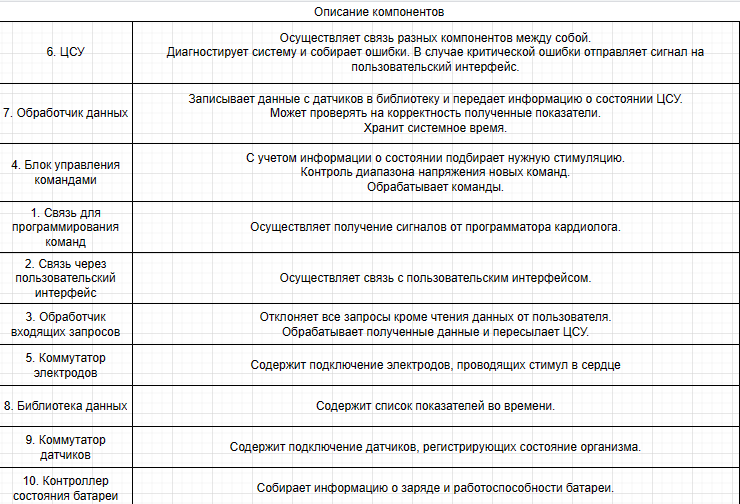
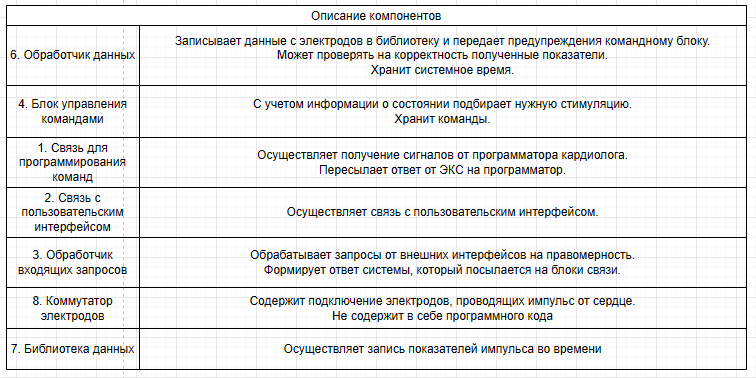
update system

Changed region(s): [[0.0, 0.0, 1.0, 1.0]]

diff --git a/code/query_processor/consumer.py b/code/query_processor/consumer.py
@@ -18,6 +18,20 @@ def handle_event(id: str, details: dict):
         if details['operation'] == 'return_battery_stat':
             CHARGE_LEVEL = details['charge_level']
             del details['charge_level']
+        
+        elif details['operation'] == 'high_bpm_alert':
+            details['response'] = [{
+                "operation": "high_bpm_alert",
+                "value": details['high_bpm_value'][0],
+                "threshold": details['high_bpm_value'][1]
+                }]
+            details['deliver_to'] = 'commun_user_interf'
+            try:
+                del details['high_bpm_value']
+            finally:
+                required_delivery = True
+        
+        elif details['operation'] == 'return_historical_data':
             if 'cardiologist_sign' in details:
                 details['deliver_to'] = 'commun_prog'
                 details['operation'] = 'return_historical_data'
@@ -33,7 +47,7 @@ def handle_event(id: str, details: dict):
                     del details['cardiologist_sign']
                     del details['historical_data']
                 finally:
-                    proceed_to_deliver(id, details)
+                    proceed_to_deliver(id, details.copy())
             
             if 'user_sign' in details:
                 details['deliver_to'] = 'commun_user_interf'
@@ -48,26 +62,10 @@ def handle_event(id: str, details: dict):
                 }]
                 try:
                     del details['user_sign']
-                    del details['historical_data']
+                    if 'historical_data' in details:
+                        del details['historical_data']
                 finally:
                     required_delivery = True
-        
-        elif details['operation'] == 'high_bpm_alert':
-            details['response'] = [{
-                "operation": "high_bpm_alert",
-                "value": details['high_bpm_value'][0],
-                "threshold": details['high_bpm_value'][1]
-                }]
-            details['deliver_to'] = 'commun_user_interf'
-            try:
-                del details['high_bpm_value']
-            finally:
-                required_delivery = True
-        
-        elif details['operation'] == 'return_historical_data':
-            details['operation'] = 'check_battery'
-            details['deliver_to'] = 'battery_controller'
-            required_delivery = True
 
         elif details['operation'] == 'commands_committed' or\
                 details['operation'] == 'fail_commands_save':
@@ -85,11 +83,14 @@ def handle_event(id: str, details: dict):
             if 'cardiologist_sign' in details:
                 if details['cardiologist_sign'] == 'digital_cardiologists_signature':
                     details['deliver_to'] = 'data_processor'
-                    proceed_to_deliver(id, details)
+                    proceed_to_deliver(id, details.copy())
             elif 'user_sign' in details:
                 if details['user_sign'] == 'digital_users_signature':
                     details['deliver_to'] = 'data_processor'
-                    proceed_to_deliver(id, details)
+                    proceed_to_deliver(id, details.copy())
+            details['operation'] = 'check_battery'
+            details['deliver_to'] = 'battery_controller'
+            required_delivery = True
 
         # only a reliable cardiologist can write new commands
         elif details['operation'] == 'write_new_commands':

diff --git a/code/storage/consumer.py b/code/storage/consumer.py
@@ -5,6 +5,7 @@ import threading
 from confluent_kafka import Consumer, OFFSET_BEGINNING
 import json
 from producer import proceed_to_deliver
+from time import ctime
 
 STORAGE_PATH = "storage/data/anamnesis.txt"
 
@@ -12,7 +13,8 @@ STORAGE_PATH = "storage/data/anamnesis.txt"
 def write_new_data(details):
     stored = False
     # update_record is tuple like (time, value_of_impuls)
-    update_record = str(details['update_record'])
+    update_record = "(" + ctime(details['update_record'][0])\
+        + ", " + str(details['update_record'][1]) + ")\n"
     try:
         with open(STORAGE_PATH, "a") as f:
             f.write(update_record)
@@ -27,7 +29,8 @@ def get_anamnesis(details):
     data = []
     try:
         with open(STORAGE_PATH, "r") as f:
-            data.extend(f.readlines())
+            for record in f.readlines():
+                data.append(record)
         success = True
     except Exception as e:
         print(f"[error] failed to read anamnesis {details}: {e}")
@@ -48,8 +51,6 @@ def handle_event(id: str, details: dict):
                     stored = write_new_data(details)
                     if stored:
                         break
-            details['operation'] = 'success_save'
-            details['deliver_to'] = 'data_processor'
             del details['update_record']
         
         elif details['operation'] == 'get_historical_data':
@@ -68,8 +69,7 @@ def handle_event(id: str, details: dict):
                 if result is False:
                     details['historical_data'] = []
             details['deliver_to'] = 'data_processor'
-        
-        proceed_to_deliver(id, details)
+            proceed_to_deliver(id, details)
         
     except Exception as e:
         print(f"[error] failed to handle request: {e}")

diff --git a/code/data_processor/consumer.py b/code/data_processor/consumer.py
@@ -6,8 +6,9 @@ from confluent_kafka import Consumer, OFFSET_BEGINNING
 import json
 from producer import proceed_to_deliver
 import random
+import time
 
-TIME = 0
+TIME = time.time()
 LOWER_THRESHOLD = 30 # bpm
 ALERT_THRESHOLD = 200 # bpm
 UPPER_THRESHOLD = 300 # bpm
@@ -31,8 +32,8 @@ def process_impuls(details: dict):
     if ALERT_THRESHOLD <= details['impuls']:
         details['operation'] = 'high_bpm_alert'
         details['high_bpm_value'] = (details['impuls'], ALERT_THRESHOLD)
-        details['deliver_to'] = 'query_processor'
-        proceed_to_deliver(id, details)
+        details['deliver_to'] = 'command_block'
+        proceed_to_deliver(id, details.copy())
 
 
 def handle_event(id: str, details: dict):
@@ -42,14 +43,14 @@ def handle_event(id: str, details: dict):
     try:
         if details['operation'] == 'process_impuls':
             process_impuls(details)
-            details['operation'] = 'write_new_data'
-            details['update_record'] = (TIME + 1, details['impuls'])
-            TIME += 1
-            details['deliver_to'] = 'storage'
-
-        elif details['operation'] == 'success_save':
             details['operation'] = 'apply_impuls'
             details['deliver_to'] = 'command_block'
+            proceed_to_deliver(id, details.copy())
+            
+            details['operation'] = 'write_new_data'
+            TIME = time.time()
+            details['update_record'] = (TIME, details['impuls'])
+            details['deliver_to'] = 'storage'
 
         elif details['operation'] == 'get_historical_data':
             details['deliver_to'] = 'storage'

diff --git a/code/command_block/consumer.py b/code/command_block/consumer.py
@@ -28,7 +28,7 @@ def commit_commands(details: dict) -> bool:
 
 def get_commands(details: dict):
     success = False
-    commands = None
+    commands: dict = None
     try:
         with open(STORAGE_PATH, "r") as f:
             commands = json.load(f)
@@ -70,11 +70,11 @@ def handle_event(id: str, details: dict):
             if result is True:
                 try:
                     # search_key is impuls that round to multiple 20
-                    search_key = max(30, details['impuls'] - details['impuls'] % 20)
+                    search_key = int(max(30, details['impuls'] - details['impuls'] % 20))
                     details['response'] = [{
                         "operation": "discharge_impuls",
                         "result": "success",
-                        "value": commands.get(search_key)
+                        "discharge value": commands.get(str(search_key))
                     }]
                     _responses_queue.put(details)
                 except Exception as e:

diff --git a/code/monitor/policies.py b/code/monitor/policies.py
@@ -56,8 +56,7 @@ def check_operation(id, details):
         authorized = True
 
     if src == 'storage' and dst == 'data_processor' \
-            and (operation == 'return_historical_data' or\
-                 operation == 'success_save'):
+            and operation == 'return_historical_data':
         authorized = True
 
     if src == 'data_processor' and dst == 'command_block' \
@@ -67,9 +66,10 @@ def check_operation(id, details):
                 operation == 'apply_impuls'):
         authorized = True
 
-    # there is a fictional module - heart due to the fact that 
+    # there is a fictional module (priori doesn't include program code) 
+    # due to the fact that 
     # in another case data_processor recieve impuls from data_processor 
-    if src == 'heart' and dst == 'data_processor' \
+    if src == 'sensor_switch' and dst == 'data_processor' \
             and operation == 'process_impuls':
         authorized = True
     

diff --git a/code/sensor_switch/sensor_switch.py b/code/sensor_switch/sensor_switch.py
@@ -2,7 +2,7 @@
 
 from argparse import ArgumentParser, FileType
 from configparser import ConfigParser
-from consumer import start_consumer
+from api import start_rest
 from producer import start_producer
 from multiprocessing import Queue
 
@@ -19,10 +19,10 @@ if __name__ == "__main__":
     config_parser = ConfigParser()
     config_parser.read_file(args.config_file)
     config = dict(config_parser['default'])
-    config.update(config_parser['data_processor'])
+    config.update(config_parser['sensor_switch'])
 
     requests_queue = Queue()
 
-    start_consumer(args, config)
+    start_rest(requests_queue)
     start_producer(args, config, requests_queue)
 

diff --git a/code/sensor_switch/producer.py b/code/sensor_switch/producer.py
@@ -9,7 +9,6 @@ _requests_queue: multiprocessing.Queue = None
 
 def proceed_to_deliver(id, details):
     # print(f"[debug] queueing for delivery event id: {id}, payload: {details}")
-    details['source'] = 'data_processor'
     _requests_queue.put(details)
 
 
@@ -34,7 +33,7 @@ def producer_job(_, config, requests_queue: multiprocessing.Queue):
 
     while True:
         event_details = requests_queue.get()
-        event_details['source'] = 'data_processor'
+        event_details['source'] = 'sensor_switch'
         producer.produce(topic, json.dumps(event_details), event_details['id'],  
             callback=delivery_callback
         )

diff --git a/code/sensor_switch/api.py b/code/sensor_switch/api.py
@@ -12,7 +12,7 @@ APP_VERSION = "1.0.2"
 
 _requests_queue: multiprocessing.Queue = None
 
-@app.route("/heart", methods=['POST'])
+@app.route("/sensor_switch", methods=['POST'])
 def heart():
     content = request.json
     
@@ -23,7 +23,6 @@ def heart():
             "id": req_id,
             "operation": "process_impuls",
             "impuls": content['impuls'],
-            "source": "heart",
             "deliver_to": "data_processor"
             }
         _requests_queue.put(heart_details)

diff --git a/code/command_block/api.py b/code/command_block/api.py
@@ -12,7 +12,7 @@ APP_VERSION = "1.0.2"
 
 _responses_queue: multiprocessing.Queue = None
 
-@app.route("/heart", methods=['GET'])
+@app.route("/command_block", methods=['GET'])
 def get_response():    
     responses = []
     while True:
